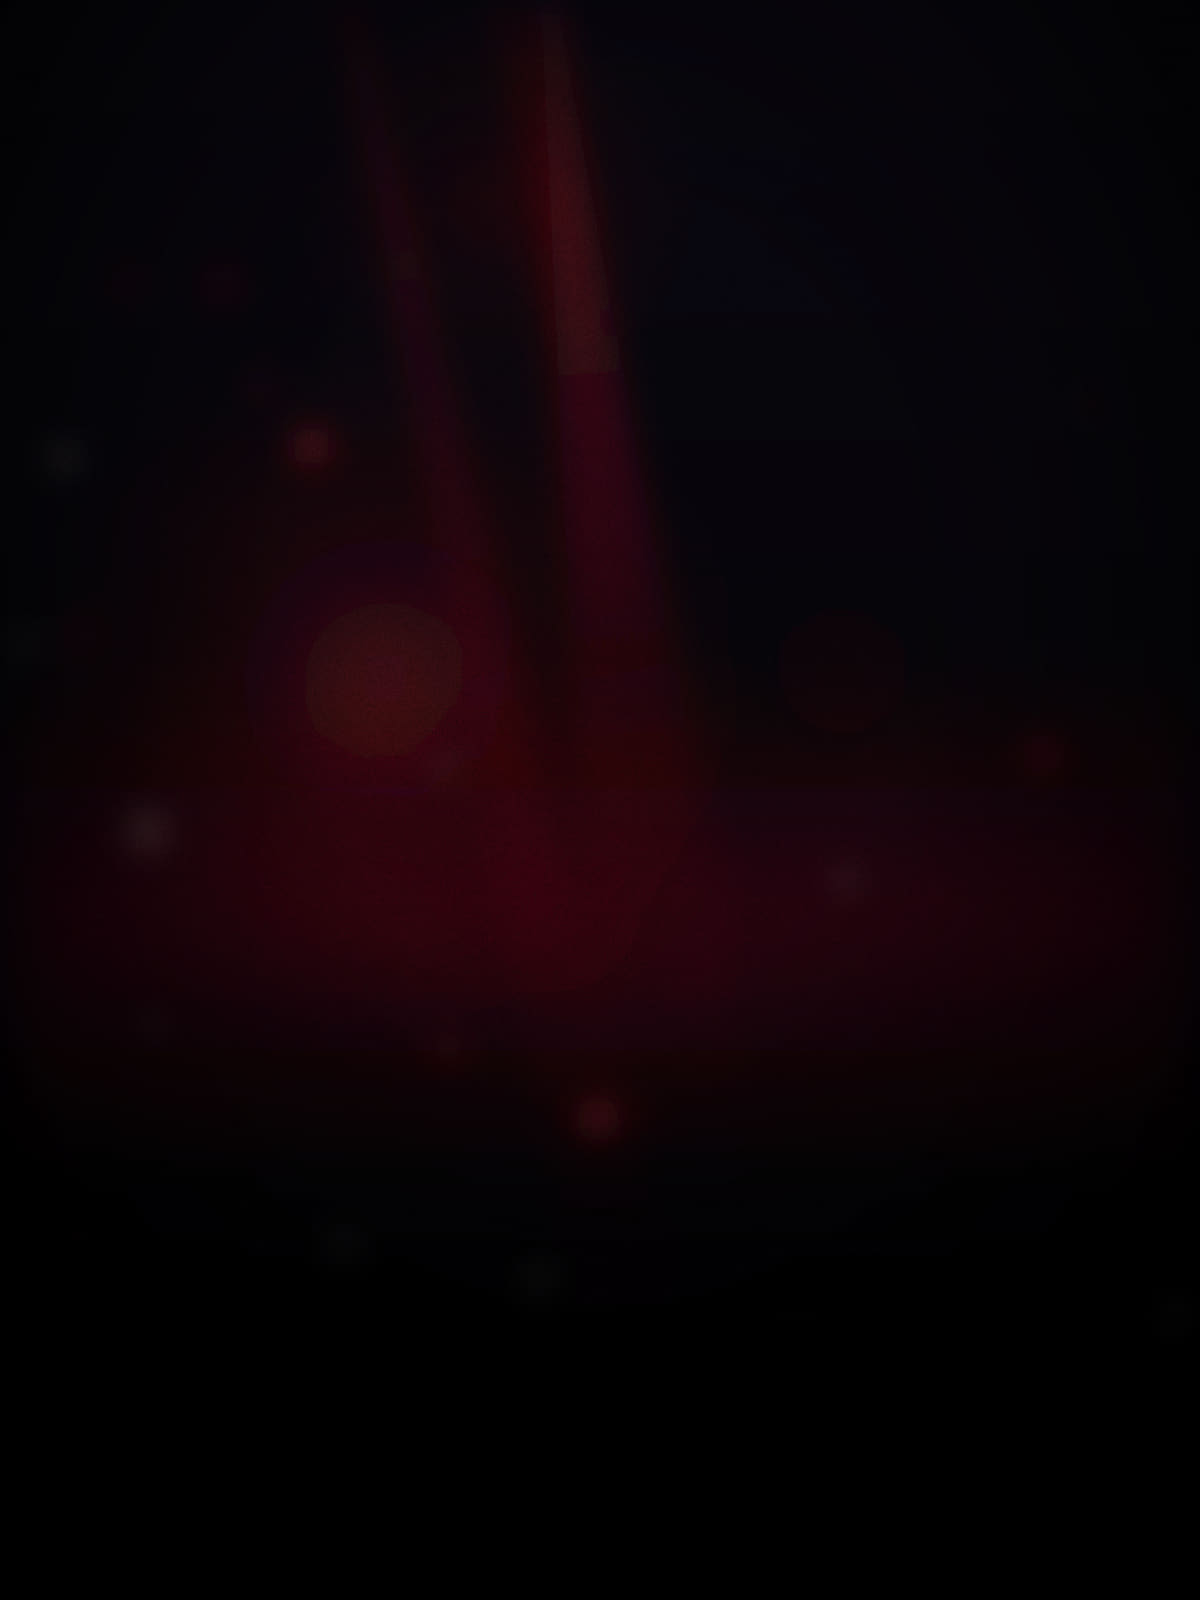
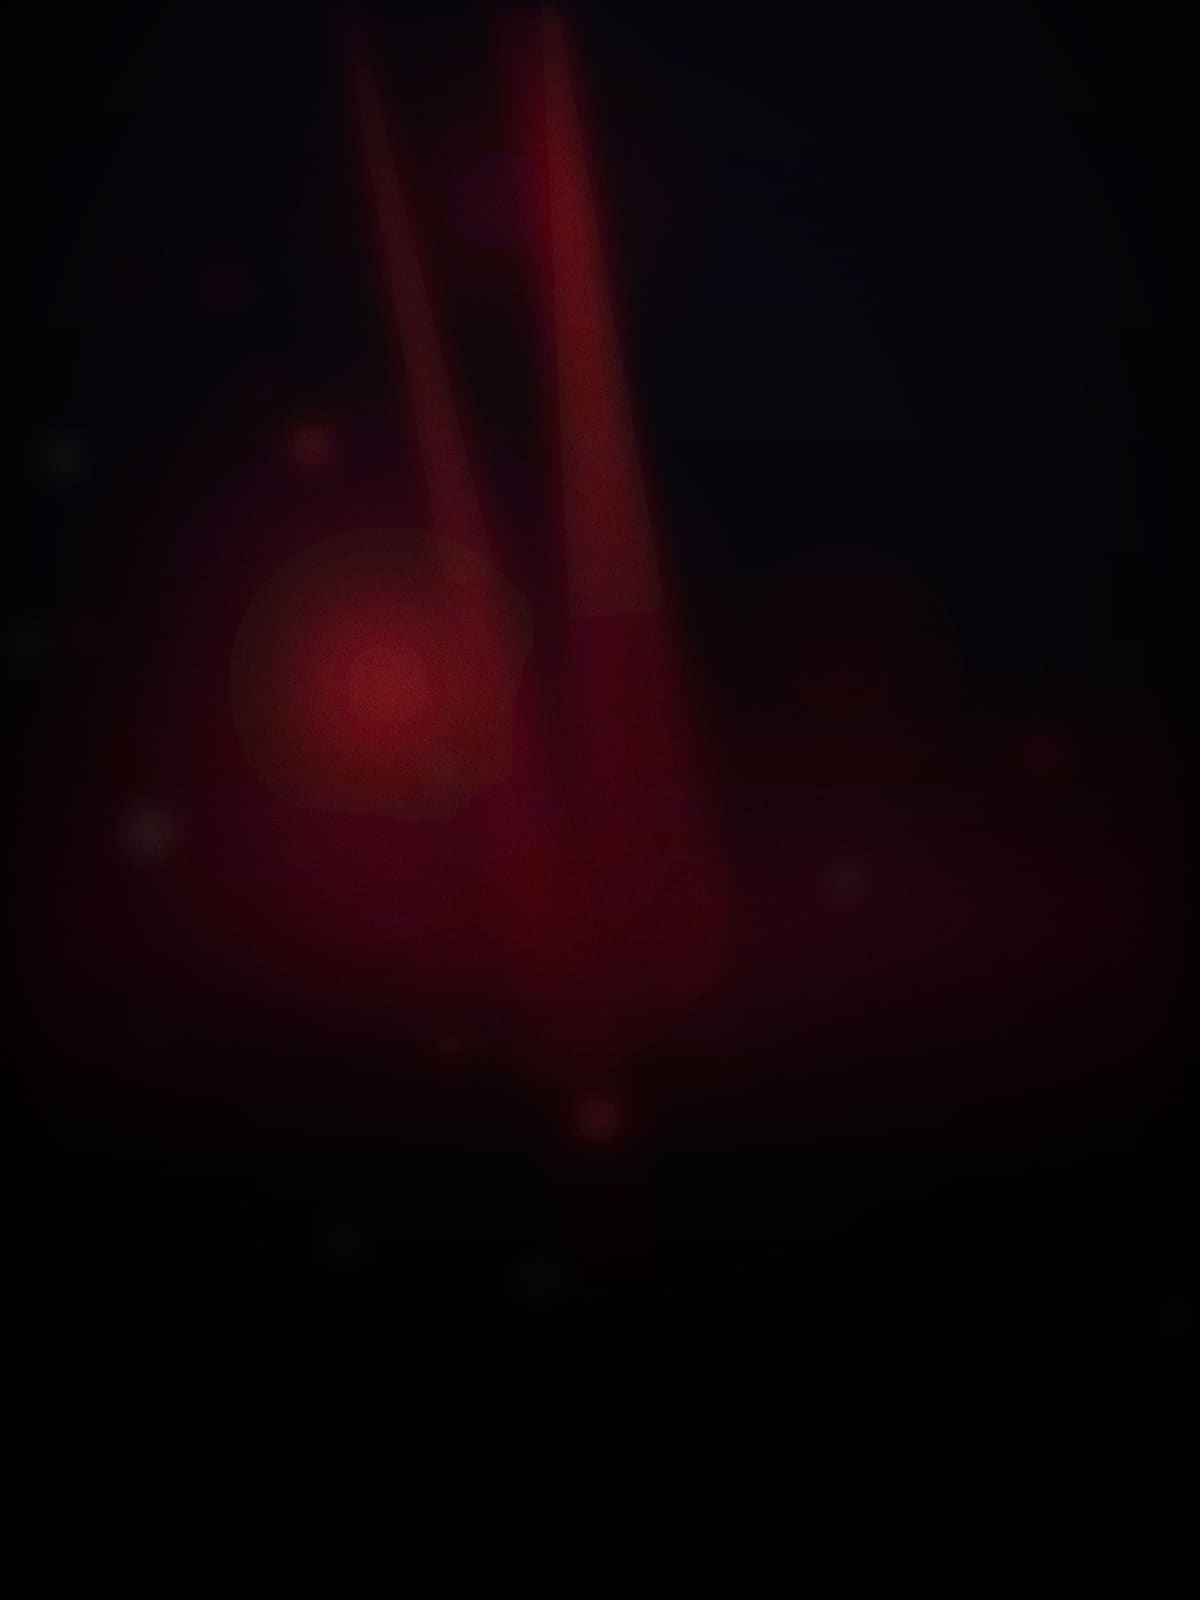
Ajustes finales de la portada en movil
El recorte vertical de la imagen apaisada dejaba fuera la zona iluminada y
el hero se veia casi negro en telefono. Se usa la variante vertical de la
portada en pantallas chicas, se reencuadra la apaisada y se alivianan las
capas de oscurecido.

Claude-Session: https://claude.ai/code/session_01DhAdZSvp49xp9GUQLFm61p

Changed region(s): [[0.2158, 0.2188, 0.4625, 0.5], [0.4317, 0.0625, 0.555, 0.4375]]

diff --git a/src/components/site/hero.tsx b/src/components/site/hero.tsx
@@ -25,8 +25,17 @@ type HeroProps = {
   nextEvent?: EventCardData | null;
 };
 
+/** Portada apaisada de demostracion y su variante vertical. */
+const DEMO_HERO = "/demo/hero.jpg";
+const DEMO_HERO_PORTRAIT = "/demo/hero-mobile.jpg";
+
 export function Hero({ settings, nextEvent }: HeroProps) {
-  const background = settings.heroImageUrl ?? "/demo/hero.jpg";
+  const background = settings.heroImageUrl ?? DEMO_HERO;
+
+  // Solo la portada que viene con el proyecto tiene variante vertical; una
+  // imagen subida desde el CMS se usa tal cual, reencuadrada por CSS.
+  const backgroundPortrait =
+    background === DEMO_HERO ? DEMO_HERO_PORTRAIT : null;
 
   return (
     <section className="relative isolate flex min-h-[100svh] flex-col justify-between overflow-hidden">
@@ -45,19 +54,39 @@ export function Hero({ settings, nextEvent }: HeroProps) {
             <source src={settings.heroVideoUrl} />
           </video>
         ) : (
-          <Image
-            src={background}
-            alt=""
-            fill
-            priority
-            sizes="100vw"
-            className="object-cover"
-          />
+          <>
+            {/* Direccion de arte: en vertical, recortar una foto apaisada deja
+                fuera la parte iluminada. Cuando existe una variante vertical se
+                usa esa en pantallas chicas. */}
+            {backgroundPortrait && (
+              <Image
+                src={backgroundPortrait}
+                alt=""
+                fill
+                priority
+                sizes="100vw"
+                className="object-cover sm:hidden"
+              />
+            )}
+
+            <Image
+              src={background}
+              alt=""
+              fill
+              priority
+              sizes="100vw"
+              className={
+                backgroundPortrait
+                  ? "hidden object-cover object-[50%_35%] sm:block"
+                  : "object-cover object-[50%_35%]"
+              }
+            />
+          </>
         )}
 
         {/* Capas de lectura: dan contraste al texto sin apagar el fondo. */}
-        <div className="absolute inset-0 bg-ink/25" />
-        <div className="absolute inset-0 bg-gradient-to-b from-ink/85 via-transparent to-ink" />
+        <div className="absolute inset-0 bg-ink/15" />
+        <div className="absolute inset-0 bg-gradient-to-b from-ink/80 via-transparent to-ink" />
         <div
           className="absolute inset-0"
           style={{
